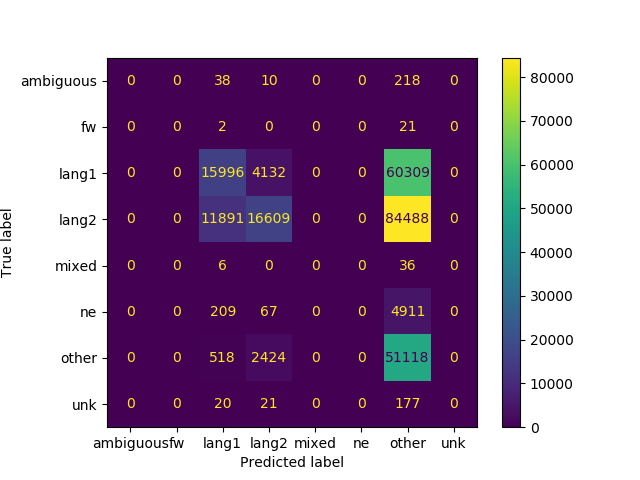
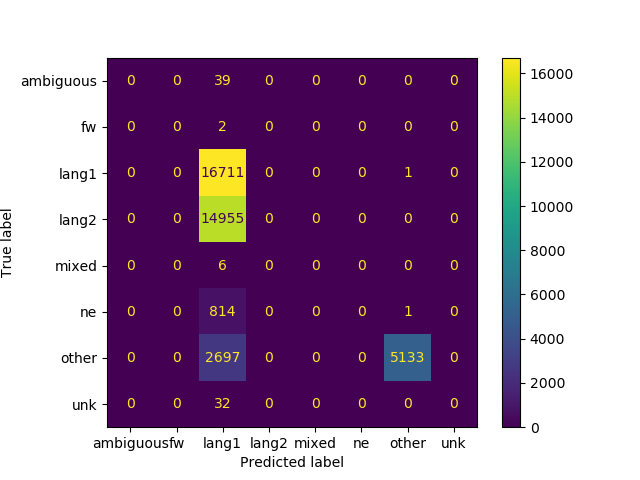
minor changes to codeswitching v2

diff --git a/code_switching_v2.py b/code_switching_v2.py
@@ -7,8 +7,8 @@ from sklearn.metrics import confusion_matrix
 import matplotlib.pyplot as plt
 from ngrams.ngrams import NGramModel
 from tools.utils import write_dict
+from tools.utils import is_other
 
-WORD_LEVEL_DICTIONARIES_PATH = "./dictionaries/word-level/"
 CHAR_LEVEL_DICTIONARIES_PATH = "./dictionaries/character-level/"
 
 # Get dictionaries
@@ -19,9 +19,6 @@ frequency_en_dict = frequency_en_df.set_index('word')['frequency'].to_dict()
 frequency_es_df = pd.read_csv(CHAR_LEVEL_DICTIONARIES_PATH+'frequency_dict_es.csv',encoding='utf-16')
 frequency_es_dict = frequency_es_df.set_index('word')['frequency'].to_dict()
 
-frequency_other_df = pd.read_csv(CHAR_LEVEL_DICTIONARIES_PATH+'frequency_dict_other.csv',encoding='utf-16')
-frequency_other_dict = frequency_other_df.set_index('word')['frequency'].to_dict()
-
 # Apply ngram model to en, es and other
 print("Applying NGRAM model...")
 model_en = NGramModel()
@@ -30,13 +27,9 @@ model_en.load_ngrams_freq(frequency_en_dict)
 model_es = NGramModel()
 model_es.load_ngrams_freq(frequency_es_dict)
 
-model_other = NGramModel()
-model_other.load_ngrams_freq(frequency_other_dict)
-
-
 # Get data
 print("Getting test data...")
-filepath = 'datasets/bilingual-annotated/test.conll'
+filepath = 'datasets/bilingual-annotated/dev.conll'
 file = open(filepath, 'rt', encoding='utf8')
 words = []
 t = []
@@ -54,18 +47,23 @@ y = []
 counter = 0
 print("Classifying...")
 for word in words:
-	prob_en = model_en.get_word_log_prob(word)
-	prob_es = model_es.get_word_log_prob(word)
-	prob_other = model_other.get_word_log_prob(word)
-	if (prob_en >= prob_es) and (prob_en >= prob_other):
-		lang = 'lang1'
-	elif (prob_es >= prob_en) and (prob_es >= prob_other):
-		lang = 'lang2'
-	else:
+	if is_other(word):
 		lang = 'other'
-	if counter % 1000 == 0:
-		print(f"{counter} of {len(words)}")
+	else:
+		prob_en = model_en.get_word_log_prob(word)
+		prob_es = model_es.get_word_log_prob(word)
+		if counter % 10000 == 0:
+			print(prob_en)
+			print(prob_es)
+			print(f"{counter} of {len(words)}")
+		if (prob_en >= prob_es):
+			lang = 'lang1'
+		else:
+			lang = 'lang2'
+	
 	y.append(lang)
+
+
 	counter+=1
 
 # Get accuracy

diff --git a/tools/utils.py b/tools/utils.py
@@ -1,4 +1,6 @@
 import csv
+import emoji
+import string
 
 def write_dict(DICTIONARIES_PATH, frequency_dict, lang, probability_dict=None):
 	frequency_dict_csv = csv.writer(open(DICTIONARIES_PATH+'frequency_dict_' + lang + '.csv', 'w',encoding='UTF-16'))
@@ -11,3 +13,20 @@ def write_dict(DICTIONARIES_PATH, frequency_dict, lang, probability_dict=None):
 		probability_dict_csv.writerow(['word', 'probability'])
 		for key, val in probability_dict.items():
 			probability_dict_csv.writerow([key, val])
+
+# Punctuation, Numbers and Emojis
+def is_other(word):
+	def isfloat(value):
+		try:
+			float(value)
+			return True
+		except ValueError:
+			return False
+
+	if word in emoji.UNICODE_EMOJI or word.isnumeric() or isfloat(word):
+		return True
+
+	for c in word:
+		if c not in string.punctuation:
+			return False
+	return True

diff --git a/dictionaries.py b/dictionaries.py
@@ -6,26 +6,9 @@ import os
 import emoji
 import string
 from tools.utils import write_dict
+from tools.utils import is_other
 
 WORD_LEVEL_DICTIONARIES_PATH = "./dictionaries/word-level/"
-
-# Punctuation, Numbers and Emojis
-def is_other(word):
-	def isfloat(value):
-		try:
-			float(value)
-			return True
-		except ValueError:
-			return False
-
-	if word in emoji.UNICODE_EMOJI or word.isnumeric() or isfloat(word):
-		return True
-
-	for c in word:
-		if c not in string.punctuation:
-			return False
-	return True
-
 
 def get_frequency_dict(lang):
 	frequency_dict = dict()

diff --git a/code_switching.py b/code_switching.py
@@ -19,7 +19,7 @@ probability_other_df = pd.read_csv(DICTIONARIES_PATH+'probability_dict_other.csv
 probability_other_dict = probability_other_df.set_index('word')['probability'].to_dict()
 
 # Get data
-filepath = 'datasets/bilingual-annotated/test.conll'
+filepath = 'datasets/bilingual-annotated/dev.conll'
 file = open(filepath, 'rt', encoding='utf8')
 words = []
 t = []

diff --git a/ngrams/ngrams.py b/ngrams/ngrams.py
@@ -39,8 +39,8 @@ class NGramModel:
 						bigrams.append(ngram)
 		return unigrams + bigrams
 	
-	def load_ngrams_freq(self, ngrams):
-		self.freq_dist = FreqDist(ngrams)
+	def load_ngrams_freq(self, freq_dist):
+		self.freq_dist = freq_dist
 
 	def get_word_log_prob(self, word):
 		word_log_prob = 0
